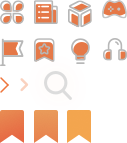
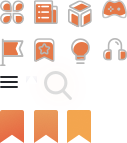
图标整合成精灵图

Changed region(s): [[0.0, 0.5315, 0.1417, 0.6713], [0.1654, 0.5315, 0.2362, 0.6434]]

diff --git a/飞鹏网首页改版/飞鹏网首页改版/index.html b/飞鹏网首页改版/飞鹏网首页改版/index.html
@@ -35,7 +35,6 @@
         </div>
         <div class="menu-box">
             <span class="menu-box-btn">
-                <img src="img/menu.png" alt="">
             </span>
         </div>
     </header>
@@ -136,18 +135,21 @@
         <div class="content-wrapper active">
             <div class="content-box">
                 <div class="top-box">
-                    <div class="img-box">
-                        <img class="lazy-load-img" src="img/lazy-small-bg.png"
-                             data-src="img/tu-1.png" alt="">
-                    </div>
-                    <div class="text-box">
-                        <div class="top-text">
-                            小小猎人军团
+                    <a href="http://m.fpwap.com/chlidhunter/">
+                        <div class="img-box">
+                            <img class="lazy-load-img"
+                                 src="img/lazy-small-bg.png"
+                                 data-src="img/tu-1.png" alt="">
                         </div>
-                        <div class="score-box">
-                            评分：9分
+                        <div class="text-box">
+                            <div class="top-text">
+                                小小猎人军团
+                            </div>
+                            <div class="score-box">
+                                评分：9分
+                            </div>
                         </div>
-                    </div>
+                    </a>
                 </div>
                 <div class="bottom-box">
                     <span class="narrow-bg"></span>

diff --git a/飞鹏网首页改版/飞鹏网首页改版/css/index.css b/飞鹏网首页改版/飞鹏网首页改版/css/index.css
@@ -78,6 +78,14 @@ header .menu-box {
     padding-top: 2px;
 }
 
+header .menu-box span {
+    display: inline-block;
+    width: 18px;
+    height: 12px;
+    background-image: url(../img/spirit-new.png);
+    background-position: 0 -76px;
+}
+
 /* 轮播图 + 导航 */
 #nav-box {
     width: 100vw;
@@ -251,6 +259,7 @@ header .menu-box {
     height: 37px;
     margin-top: 14px;
     padding-left: 5vw;
+    margin-right: 20px;
 }
 
 #editor-recommend-box .top-box .img-box,
@@ -309,10 +318,11 @@ header .menu-box {
     display: block;
     width: 15px;
     height: 11px;
-    background: url(../img/top-narrow2.png) no-repeat center center;
+    background-image: url(../img/spirit-new.png);
+    background-position: -26px -76px;
     position: absolute;
-    top: -9px;
-    left: 5.5vw;
+    top: -6px;
+    left: 5.2vw;
 }
 
 #editor-recommend-box .right-narrow {
@@ -956,13 +966,12 @@ footer {
     }
 
     header .menu-box {
-        width: 20px;
+        width: 22px;
         padding-top: 8px;
     }
 
-    header .menu-box img {
-        width: 20px;
-        height: 17px;
+    header .menu-box span {
+        transform: scale(1.2);
     }
 
     #nav-box {
